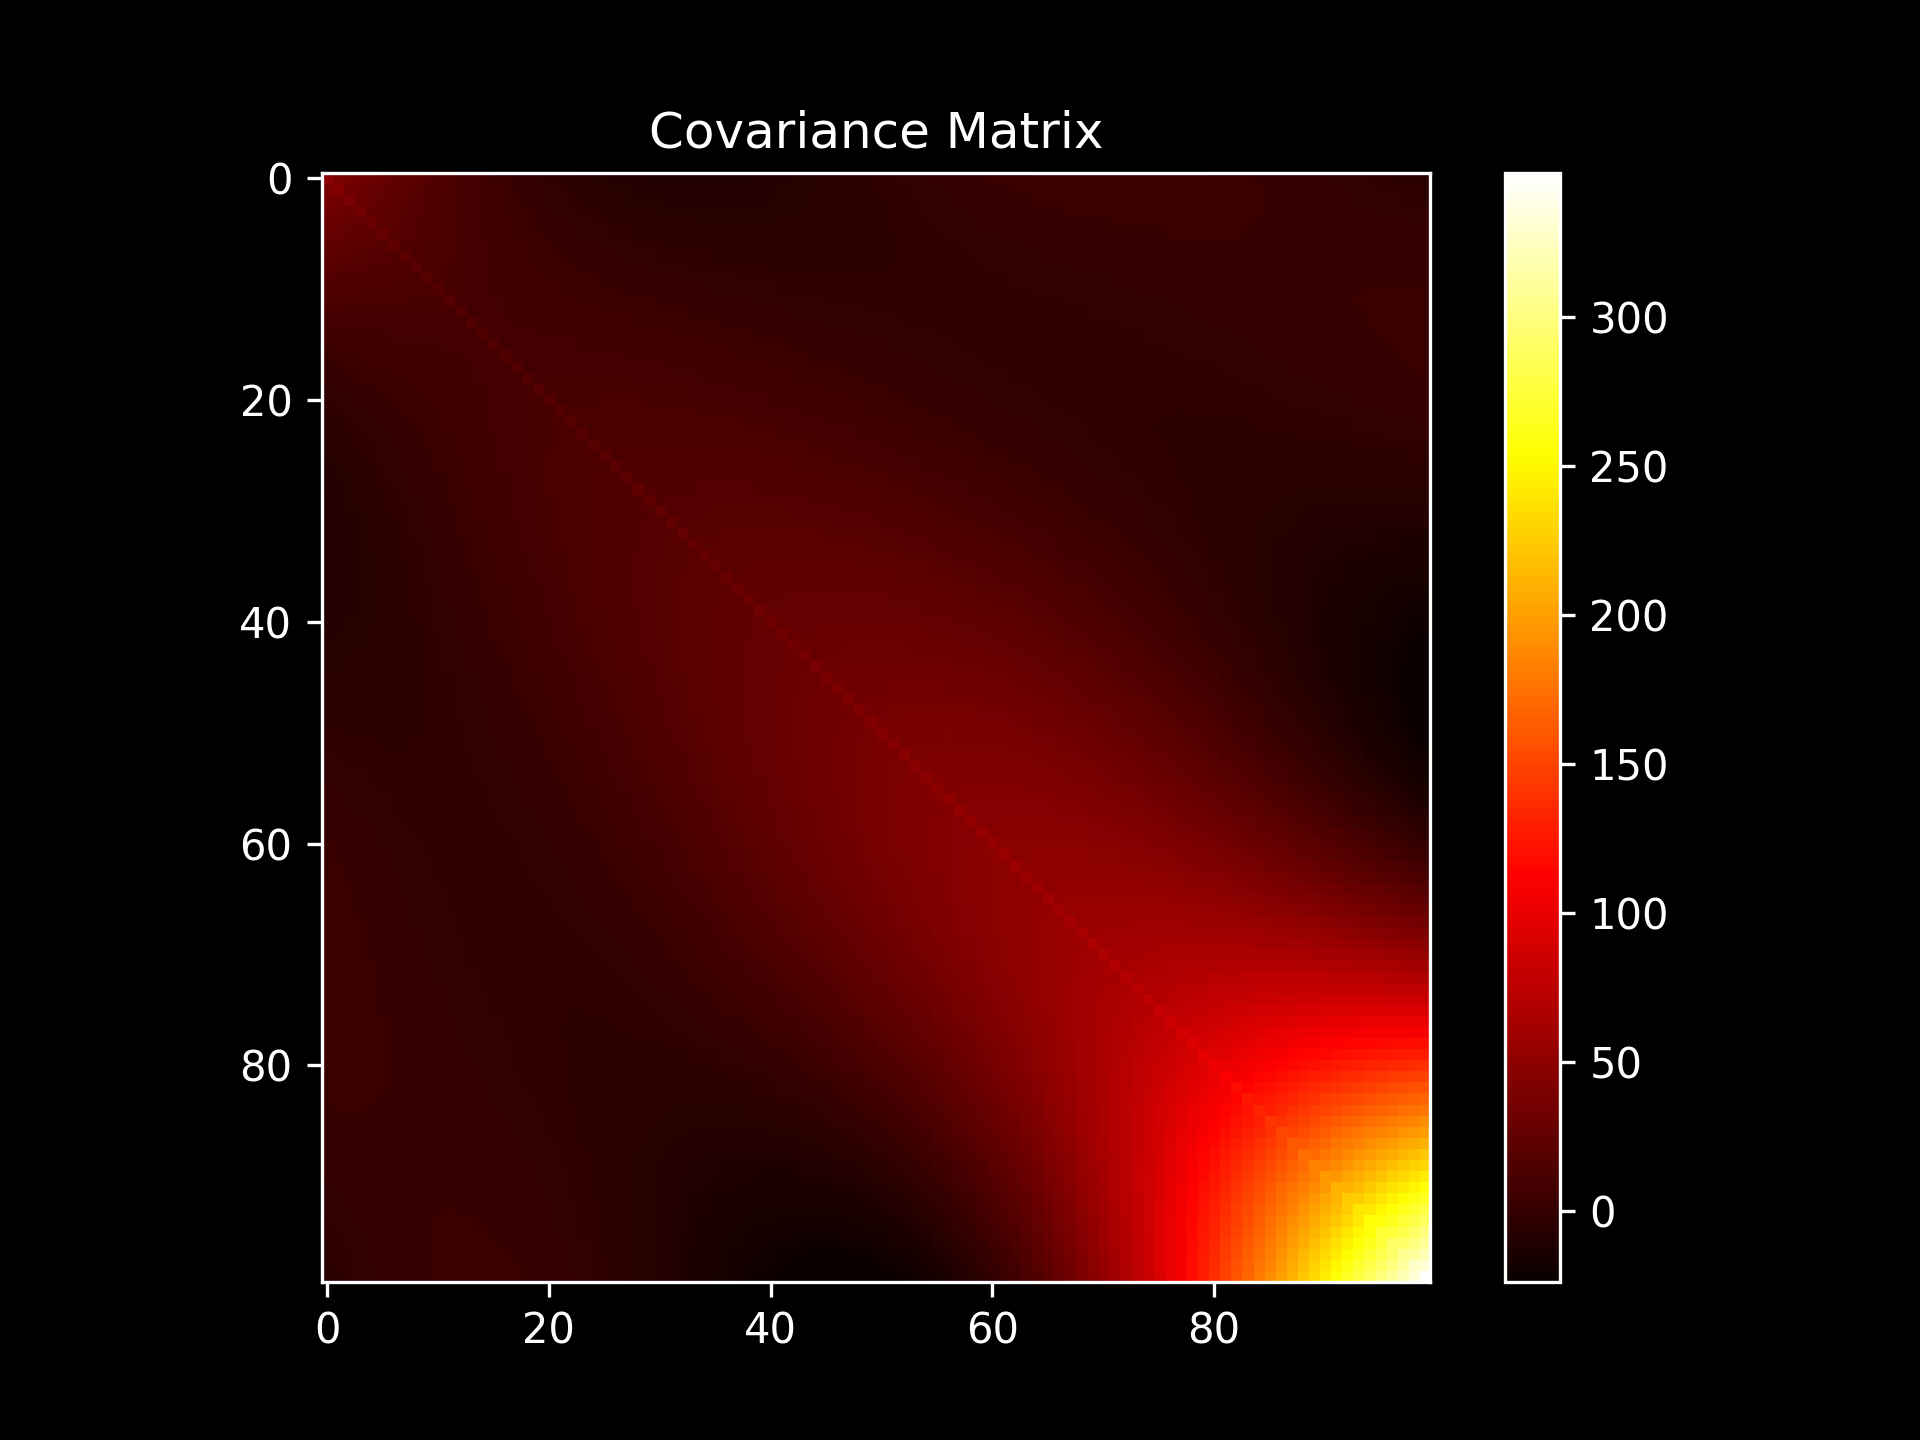
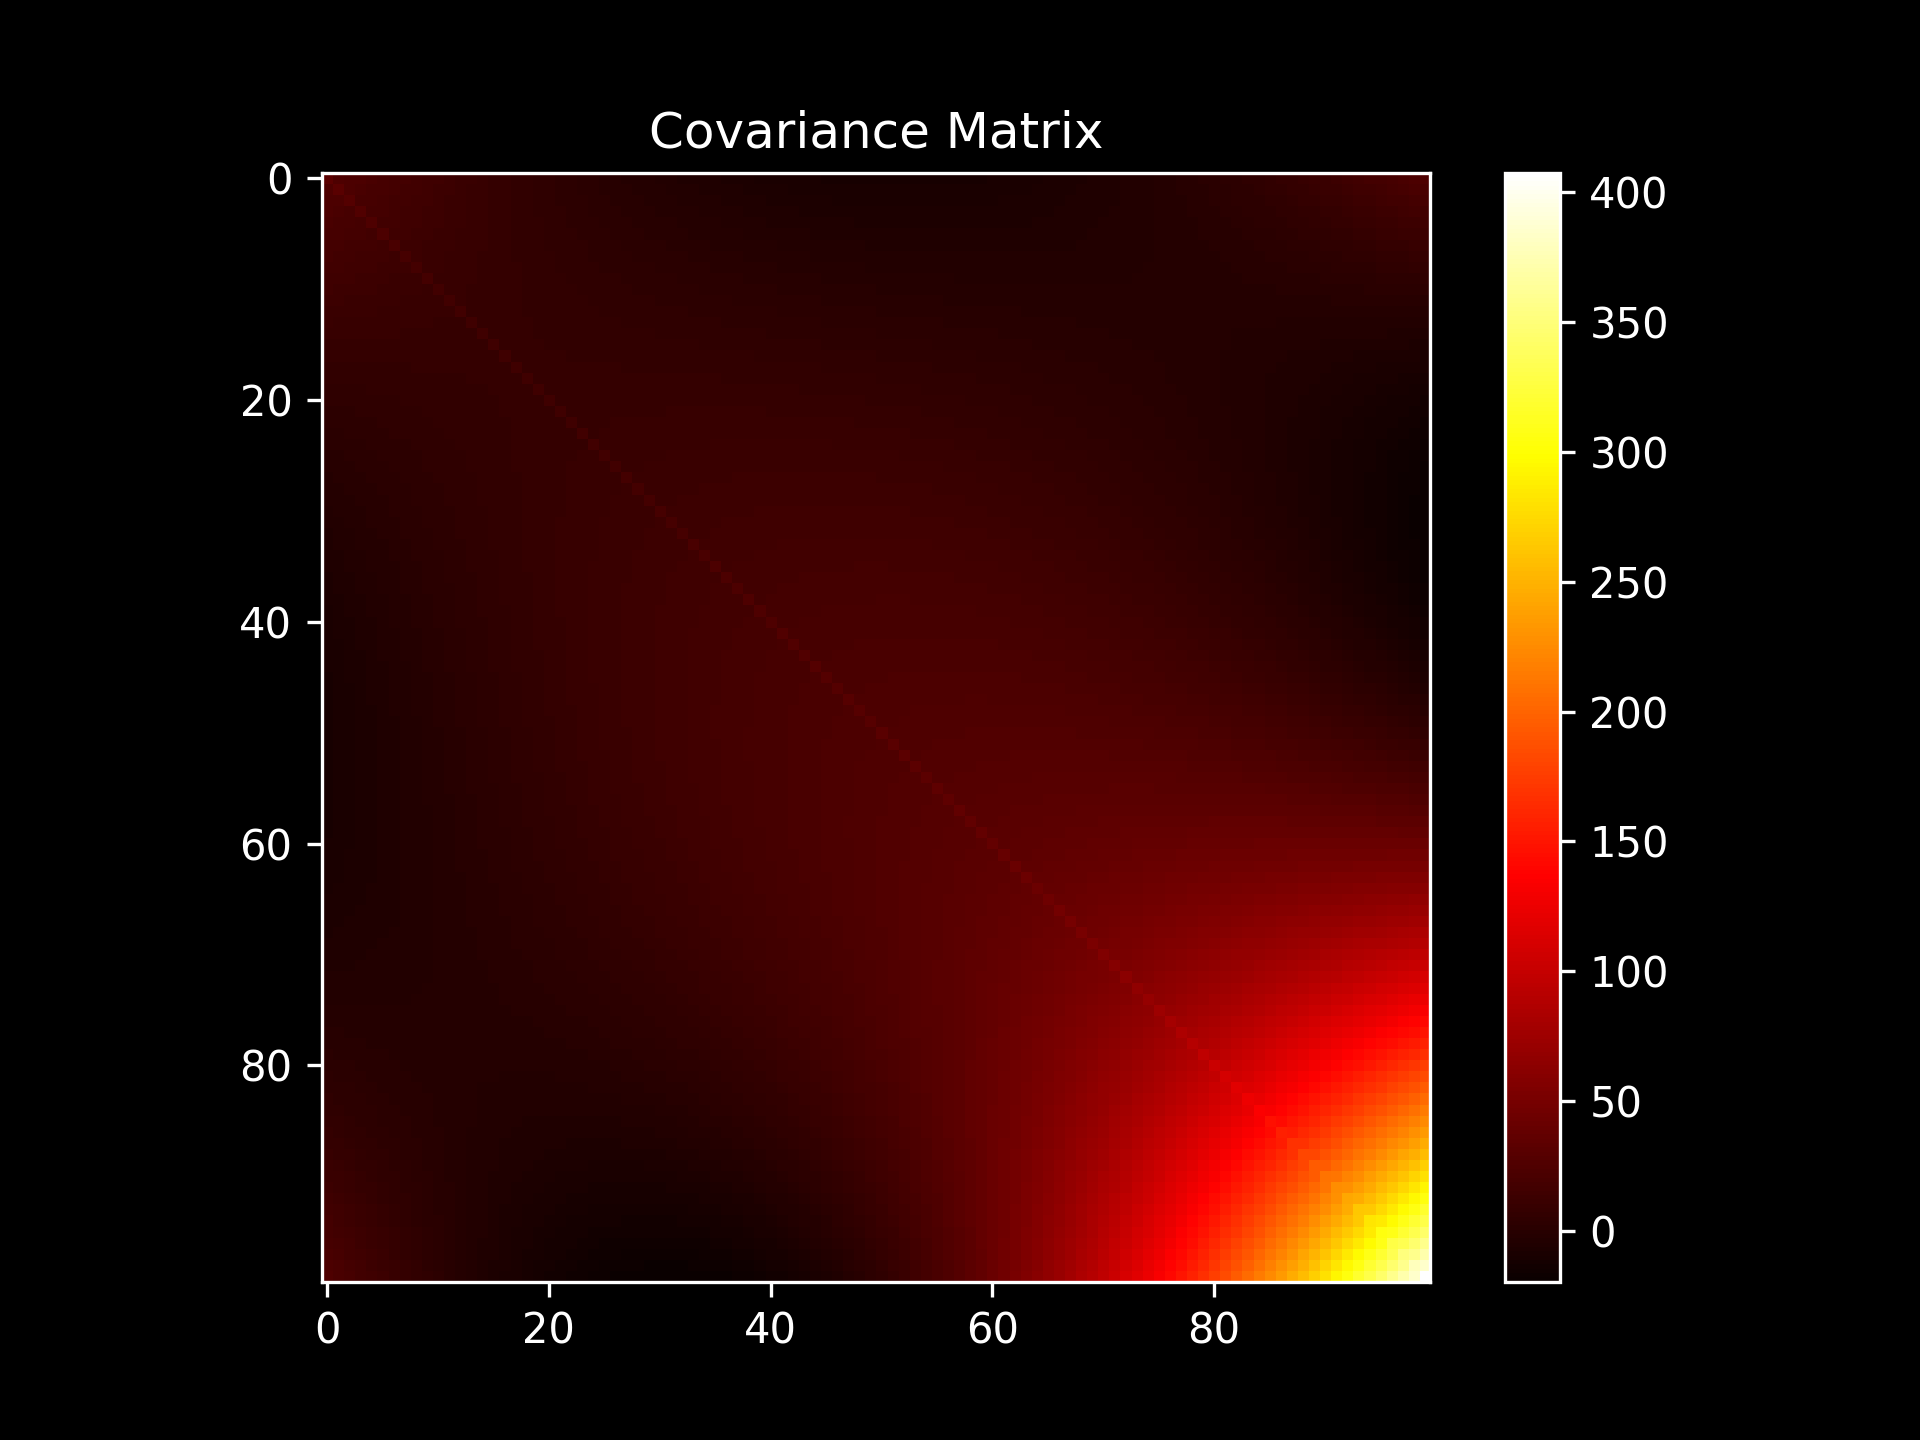
gp with dotproduct

diff --git a/cosmic_chronometers/cc_gp.py b/cosmic_chronometers/cc_gp.py
@@ -4,7 +4,7 @@ from sklearn.gaussian_process import GaussianProcessRegressor
 from sklearn.gaussian_process.kernels import (
     ConstantKernel as C,
     WhiteKernel,
-    RBF,
+    DotProduct,
 )
 from y2005cc.data import get_data
 
@@ -20,7 +20,7 @@ normalised_sigma = dH_values / H_std
 fixed_noise_to_avoid_singular_matrix = WhiteKernel(
     noise_level=0.005, noise_level_bounds="fixed"
 )
-kernel = C(1**2) * RBF(0.85) + fixed_noise_to_avoid_singular_matrix
+kernel = C(0.5**2) * DotProduct(sigma_0=3) ** 4 + fixed_noise_to_avoid_singular_matrix
 gp = GaussianProcessRegressor(
     kernel=kernel,
     alpha=normalised_sigma**2,
@@ -35,14 +35,19 @@ cov_pred = cov_pred * H_std**2
 H_pred = H_pred * H_std + H_mean
 sigma = np.sqrt(np.diag(cov_pred))
 
-print("H0", f"{H_pred[0]:.2f} ± {sigma[0]:.2f}")  # H0 73.5 ± 7 km/s/Mpc
-print("GP score:", gp.score(1 + z_values, normalized_H))  # 0.881
+print("H0", f"{H_pred[0]:.2f} ± {sigma[0]:.2f}")
+# H0 67.28 +- 5.77 km/s/Mpc
+print("GP score:", gp.score(z_values, normalized_H))
+# 0.898
 print(
     "GP marginal likelihood value",
     gp.log_marginal_likelihood_value_ - H_values.size * np.log(H_std),
-)  # -136.96
+)
+# -137.56
 print("GP kernel", gp.kernel_)
-print("cov mat condition number", np.linalg.cond(cov_pred))  # 612
+# 0.0258**2 * DotProduct(sigma_0=2.66) ** 4 + WhiteKernel(noise_level=0.005)
+print("cov mat condition number", np.linalg.cond(cov_pred))
+# 703
 
 plt.style.use("dark_background")
 plt.errorbar(z_values, H_values, yerr=dH_values, fmt=".", label="CC Data", capsize=2)
